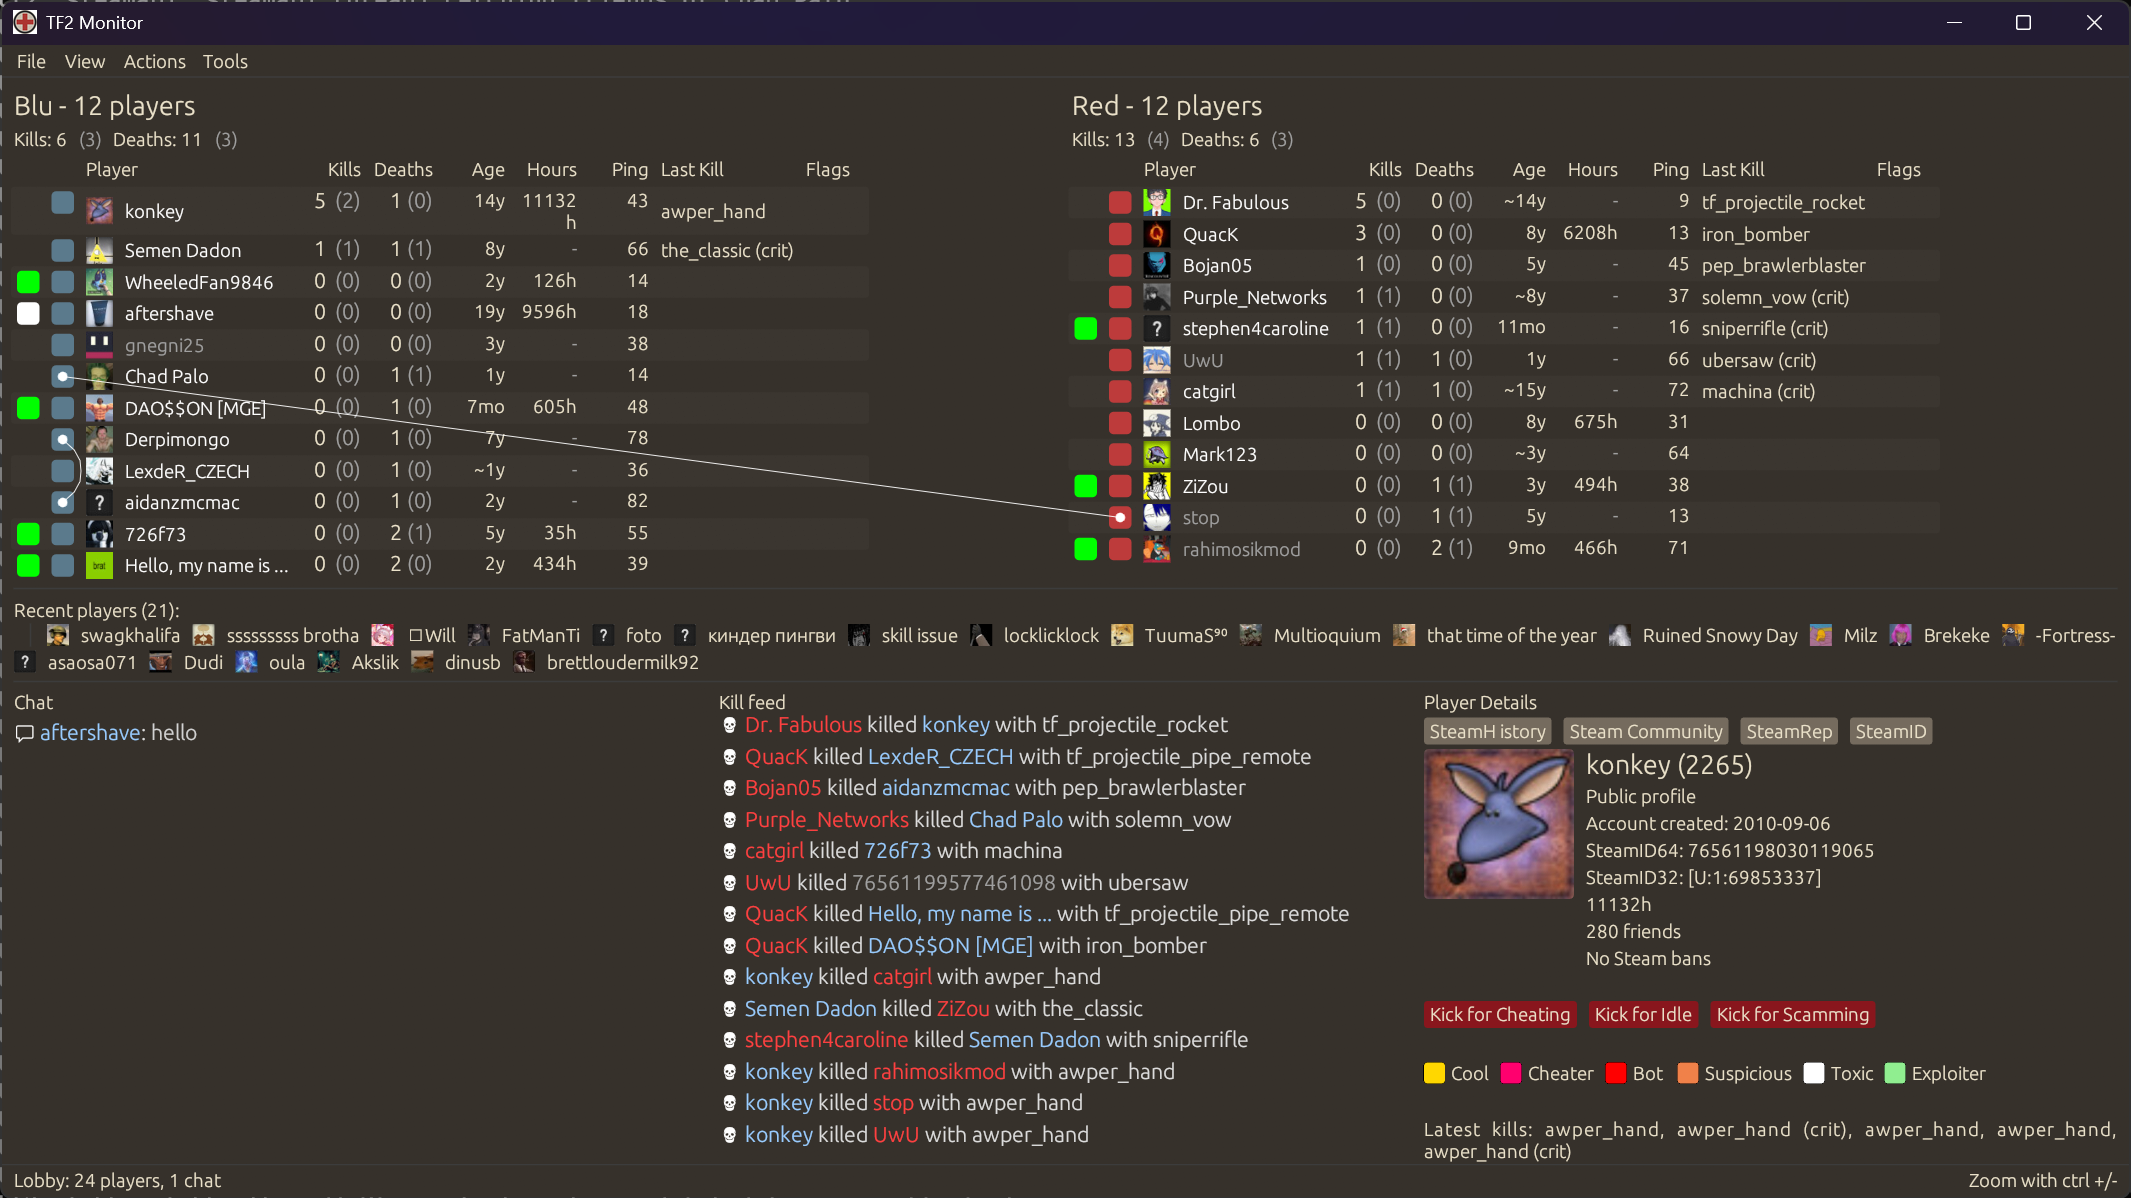
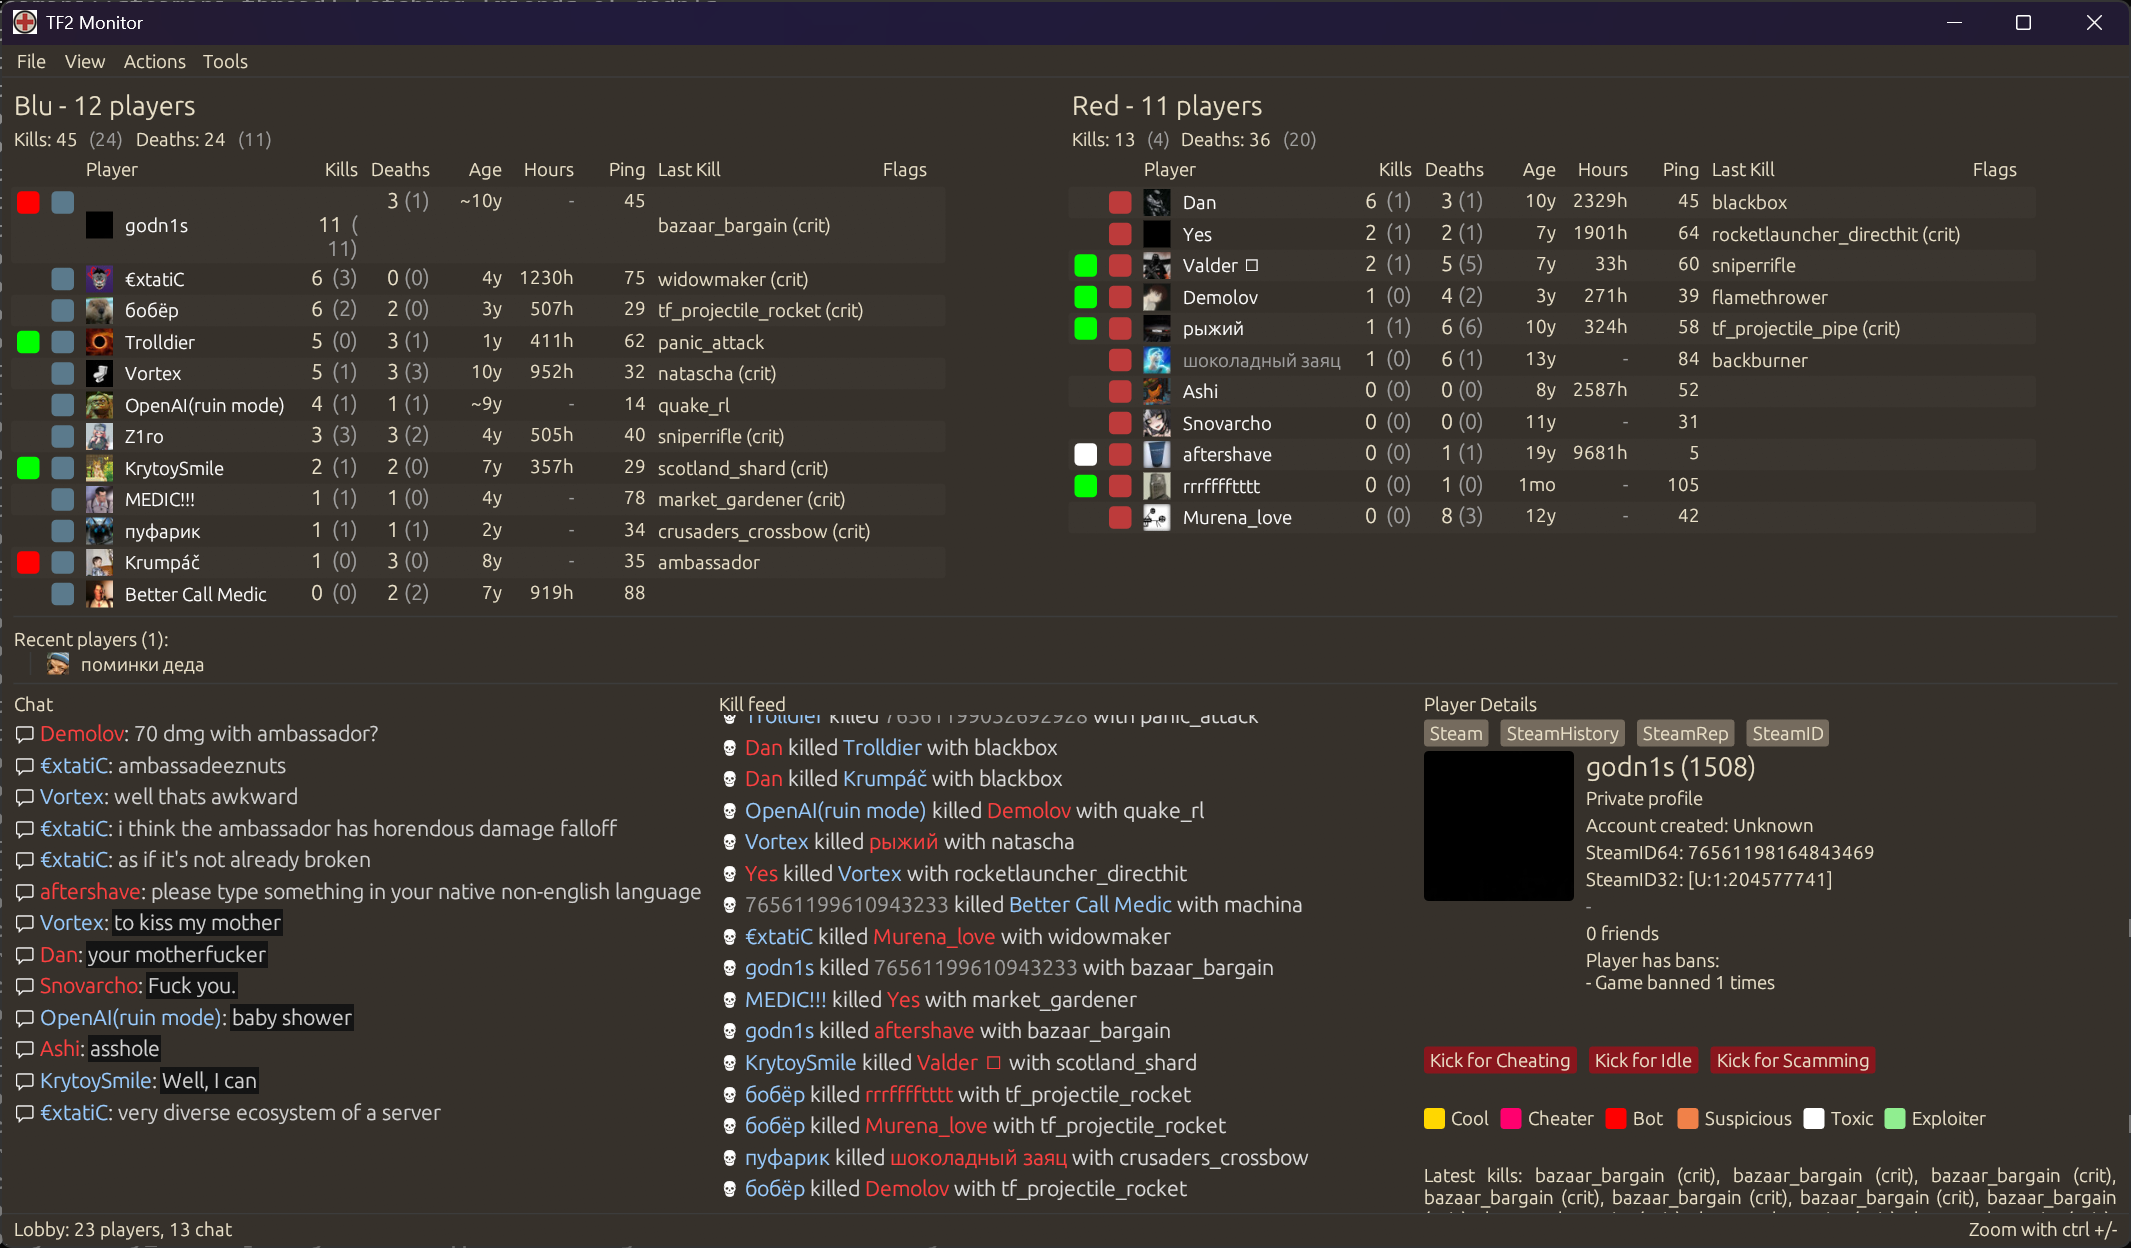
Updated readme and screenshot

diff --git a/README.md b/README.md
@@ -1,5 +1,7 @@
 # TF2Monitor
 
+[![Get it on SERVICE](https://gist.github.com/cxmeel/0dbc95191f239b631c3874f4ccf114e2/raw/discord.svg)](https://discord.gg/BBhH92t4)
+
 **NOTE! This project is a work in progress and something I do on a hobby basis when I have spare time and energy.**
 
 **NOTE! Not ready to receive code contributions yet.**
@@ -11,19 +13,19 @@ With this app you can:
 - Collect and present public Steam info about the players you play with. Example info:
 
   - Steam account creating time
-  - Player's public avatar picture - Buttons with links to popular sites such as SteamHistory.net and SteamCommunity.com for each player.
+  - Player's public avatar picture - Buttons with links to popular sites such as SteamHistory.net and SteamCommunity.com for each player
   - Number of TF2 hours
-  - VAC bans etc.
+  - VAC bans etc
+
+- Get the chat in TF2 translated into English
 
 Players marked are saved in playerlist.json. The format is based on TF2BD file format but only the SteamID -> flags section are used, and flags for Cool(one-way soft-friendship) and Bot are added.
-
-# Discord
-
-https://discord.gg/BBhH92t4
 
 # Screenshot
 
 ![Alt text](/screenshots/TF2Monitor.png?raw=true "TF2Monitor")
+
+## Scoreboard
 
 First column in the table is:
 
@@ -38,6 +40,10 @@ Hover on a player name to see some brief information about the player. Players m
 Under scoreboard there's a list of players that left recently. Players remain there for 1 minute. Click on a player name to see details.
 
 When "Show friendships" is checked, there are white connections between friends.
+
+## Chat
+
+Translated chat texts have black background and white text.
 
 # What about VAC?
 
